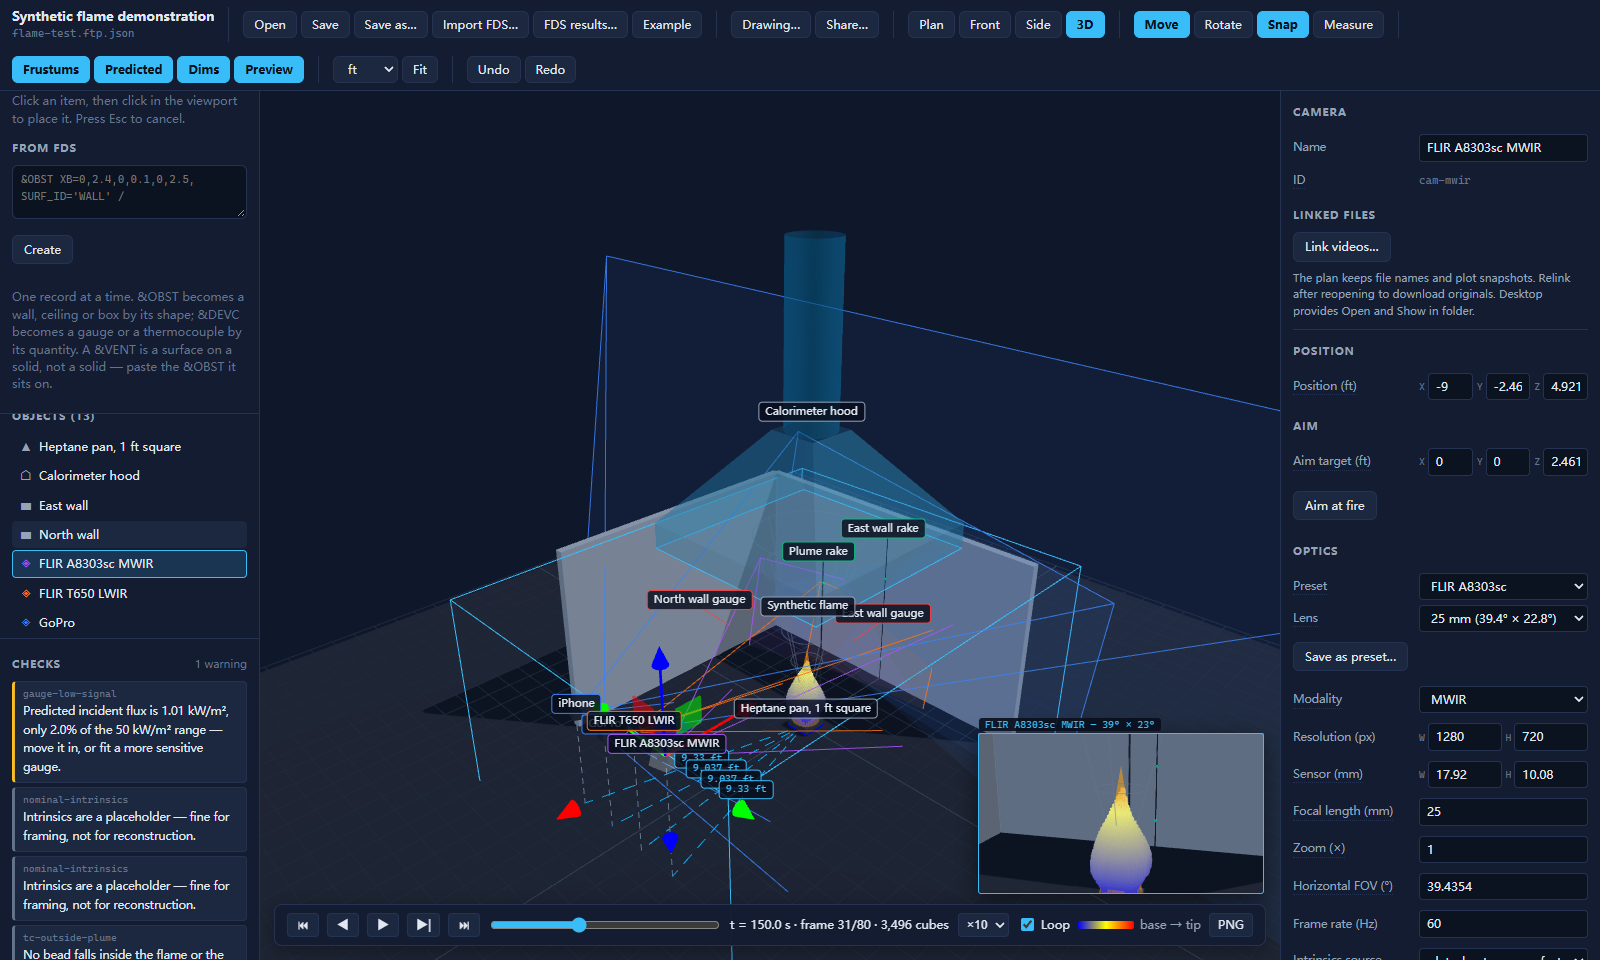
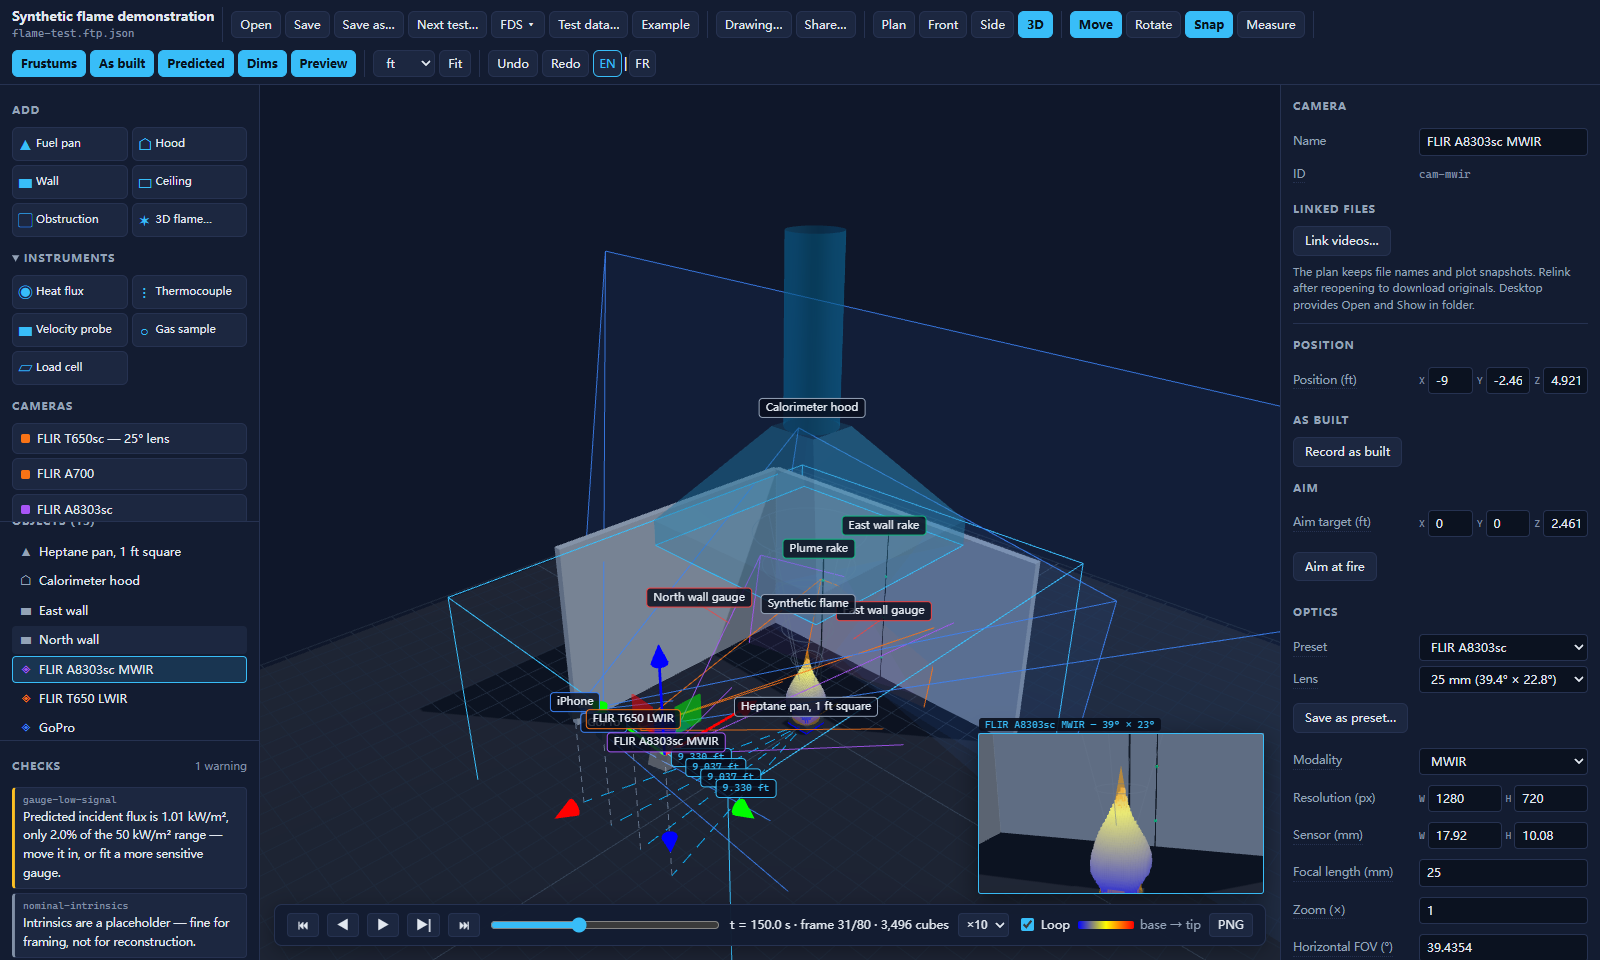
Results cut-away row, a flaky embedding test, fresh README screenshots
- FDS results: the cut-away checkbox sat alone on a line above its label.
  It now shares a row with "Cut away above Z (m)", and its accessible name
  is that visible label instead of a different aria-label.
- test-data-embed.test.ts compared two serializations around 200 ms apart;
  serialize() stamps meta.modified to the second, so about 1 run in 12
  failed when the two calls straddled a second. The test holds the clock.
- docs/images: the editor and results screenshots show the FDS menu, the
  two-column palette and the language switch.

Claude-Session: https://claude.ai/code/session_01AUQK4dqXHjiytBCX8vvtTX

diff --git a/web/src/io/test-data-embed.test.ts b/web/src/io/test-data-embed.test.ts
@@ -1,5 +1,5 @@
 import { readFileSync } from 'node:fs';
-import { describe, expect, it } from 'vitest';
+import { afterEach, describe, expect, it, vi } from 'vitest';
 import { decimateMinMax, type Series } from '../core/test-data';
 import { parseAndValidatePlan } from '../core/validate';
 import { Store } from '../state/store';
@@ -12,7 +12,13 @@ const doc = () => parseAndValidatePlan(new TextDecoder().decode(fixture('test-da
 const boot = '<html><head><title>Test</title><script type="application/json" id="embedded-plan"></script></head></html>';
 
 describe('shared test data', () => {
+  afterEach(() => { vi.useRealTimers(); });
+
   it('round-trips through HTML and the session, with exactly the decimated samples and no saved payload', async () => {
+    // serialize() stamps meta.modified to the second; hold the clock so two calls
+    // compare equal however long the loads take.
+    vi.useFakeTimers({ toFake: ['Date'] });
+    vi.setSystemTime(new Date('2026-11-02T12:00:00Z'));
     const store = new Store(doc());
     const data = new TestDataStore(store, path => Promise.resolve({ bytes: fixture(path), modified: null }));
     await Promise.all(store.document.testData!.map(s => data.load(s.id)));

diff --git a/web/src/ui/fds-results.ts b/web/src/ui/fds-results.ts
@@ -367,7 +367,7 @@ export class FdsResultsDialog {
         value: 2,
         'aria-label': i18n.t("Cutaway height in metres"),
       });
-      const cut = h('input', { type: 'checkbox', 'aria-label': i18n.t("Cut away above height") });
+      const cut = h('input', { type: 'checkbox' });
       const applyCut = () => {
         if (!cut.checked) this.scene?.setCutaway();
         else if (Number.isFinite(cutHeight.valueAsNumber)) this.scene?.setCutaway(cutHeight.valueAsNumber);
@@ -412,7 +412,10 @@ export class FdsResultsDialog {
           ]),
           this.autoScaleButton,
           h('label', {}, [i18n.t("Opacity / smoke density"), opacity]),
-          h('label', {}, [cut, i18n.t("Cut away above Z (m)"), cutHeight]),
+          h('div', { class: 'fds-results__cut' }, [
+            h('label', { class: 'fds-results__check' }, [cut, i18n.t("Cut away above Z (m)")]),
+            cutHeight,
+          ]),
           h('hr'),
           this.devicePanel.root,
           h('hr'),

diff --git a/web/src/styles.css b/web/src/styles.css
@@ -876,6 +876,7 @@ input[type=checkbox], input[type=range] { accent-color: var(--accent); }
 .fds-results__devices > strong { font-size: 14px; }
 .fds-results__device-filters { display: flex; flex-direction: column; gap: 7px; }
 .fds-results__sidebar .fds-results__check { flex-direction: row; align-items: center; gap: 7px; }
+.fds-results__cut { display: flex; flex-direction: column; gap: 6px; }
 .fds-results__check input { margin: 0; accent-color: var(--accent); }
 .fds-results__device-detail { font-size: 12px; line-height: 1.6; overflow-wrap: anywhere; color: var(--text); }
 .fds-results__device-detail strong { color: var(--text); }
